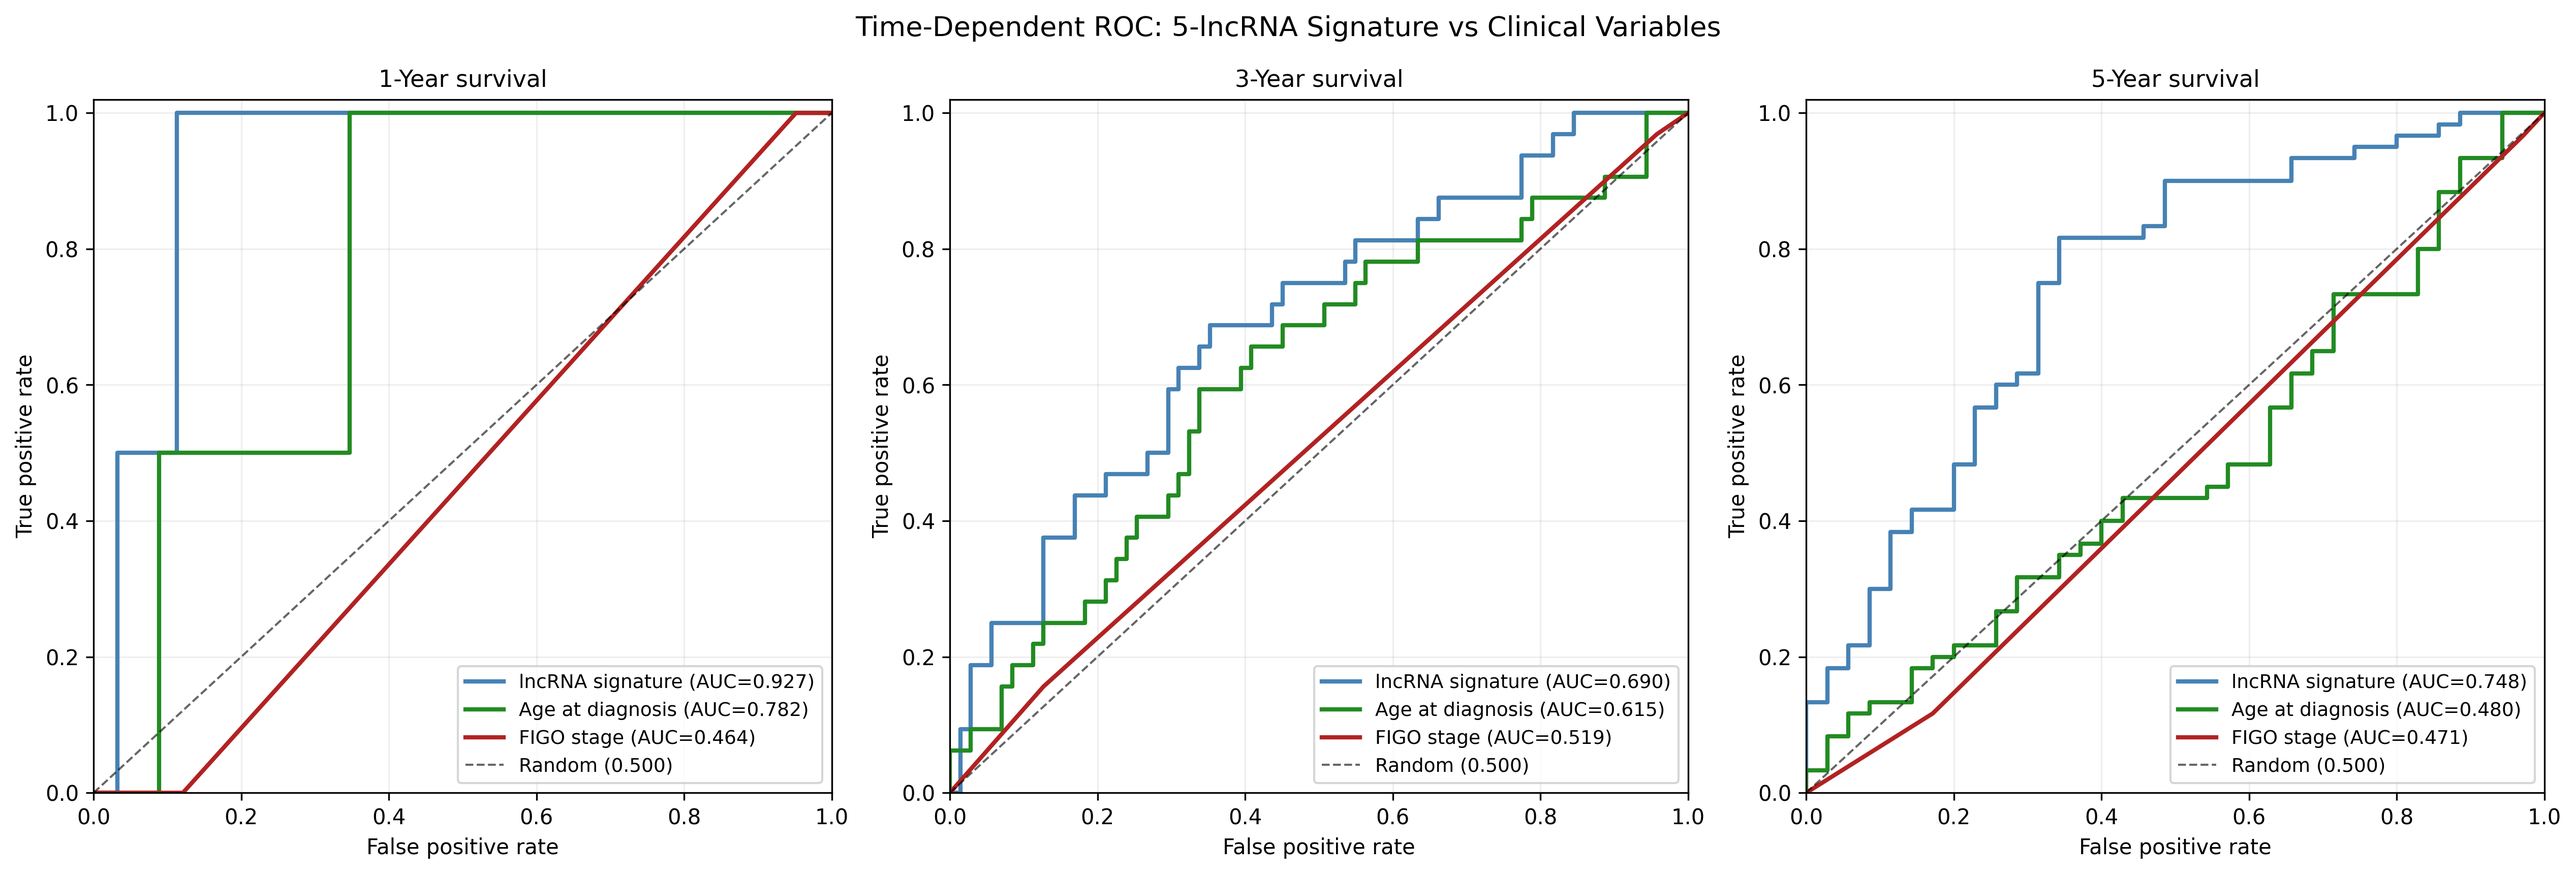
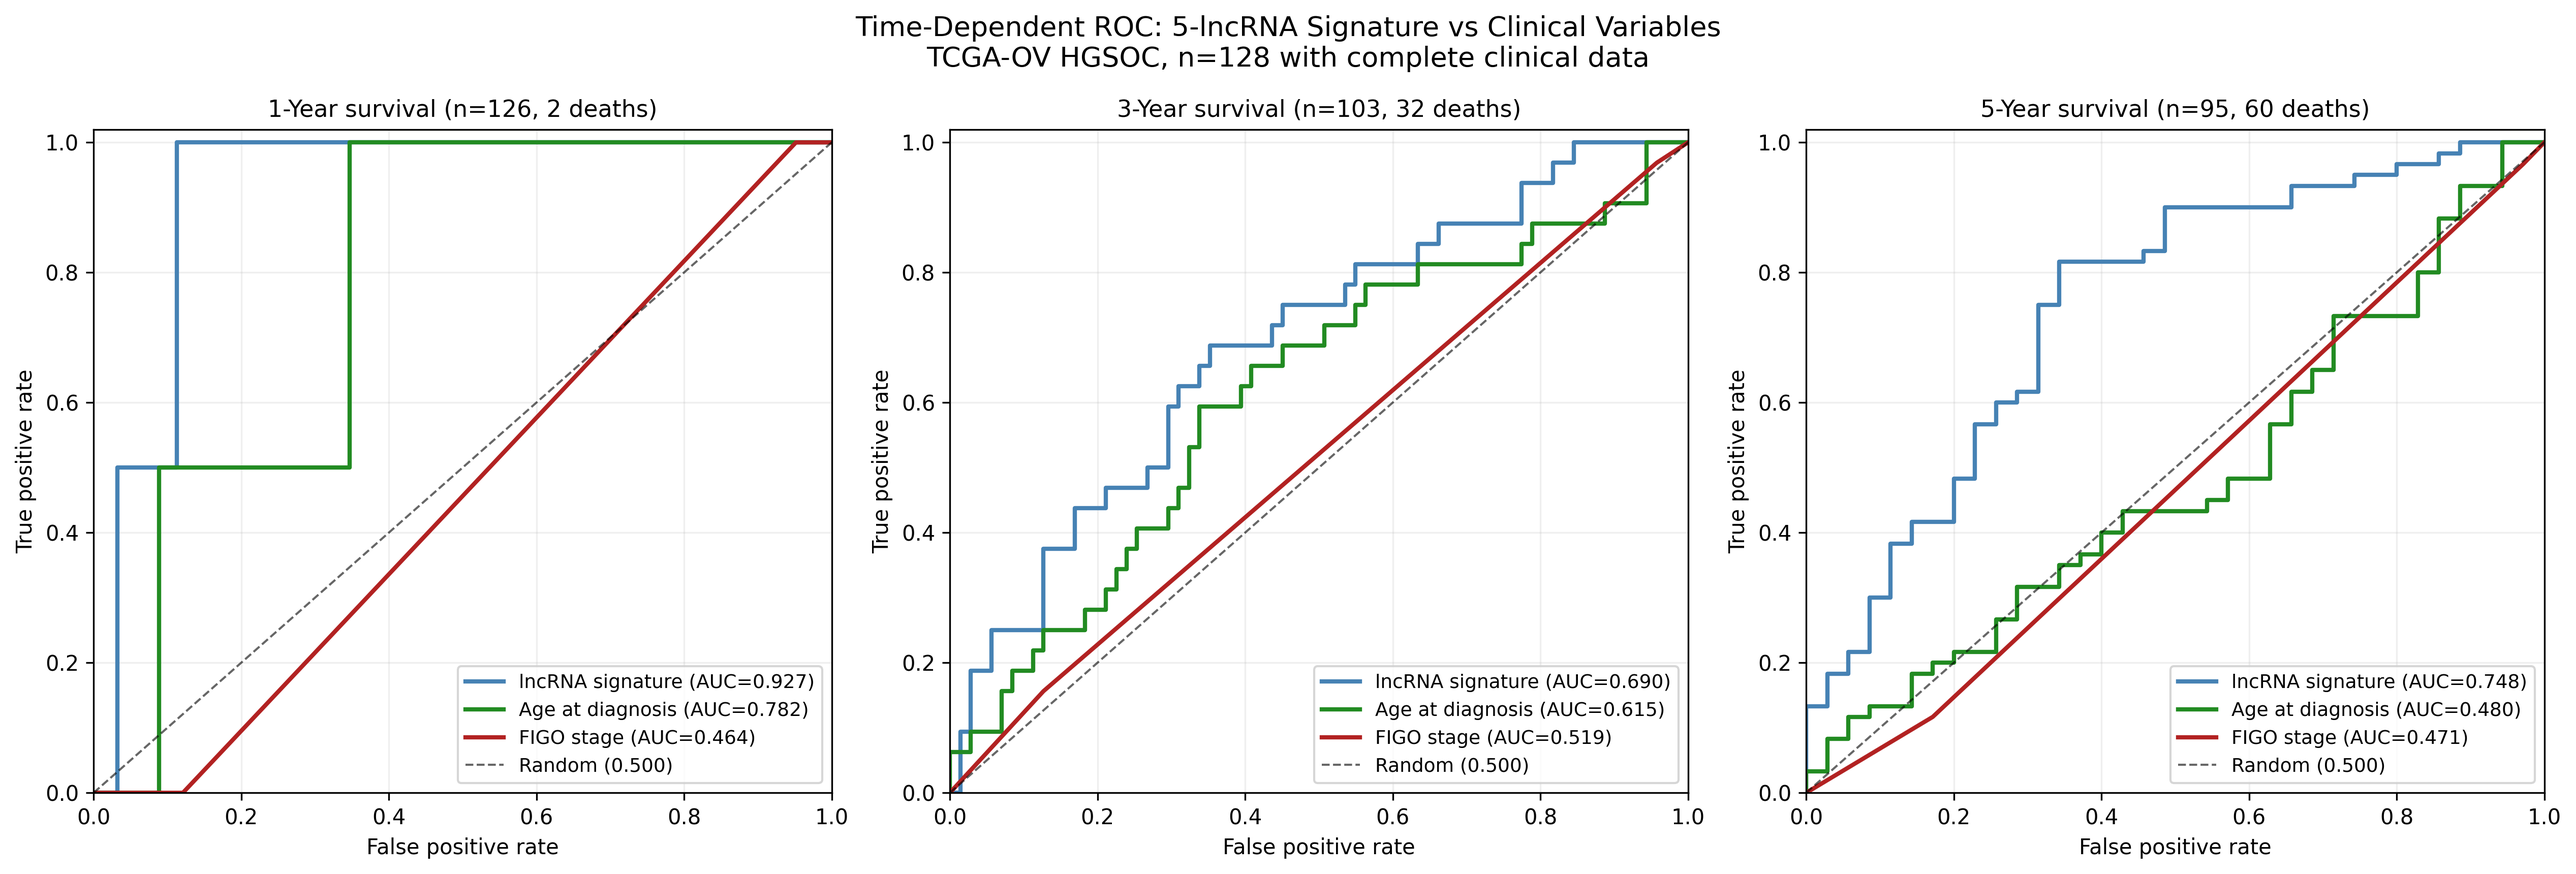
Report evaluable counts and deaths per panel
The 1-year panel rests on 2 deaths, which the AUC of 0.927 hides.
Putting the counts in the titles makes that obvious.

diff --git a/03-time-dependent-roc/time_dependent_roc.py b/03-time-dependent-roc/time_dependent_roc.py
@@ -138,12 +138,13 @@ def plot_roc_panels(frame):
         ax.set_ylim(0, 1.02)
         ax.set_xlabel("False positive rate", fontsize=10)
         ax.set_ylabel("True positive rate", fontsize=10)
-        ax.set_title(f"{label} survival", fontsize=11)
+        ax.set_title(f"{label} survival (n={evaluable.sum()}, {n_events} deaths)", fontsize=11)
         ax.legend(loc="lower right", fontsize=9)
         ax.grid(alpha=0.2)
 
     fig.suptitle(
-        "Time-Dependent ROC: 5-lncRNA Signature vs Clinical Variables",
+        "Time-Dependent ROC: 5-lncRNA Signature vs Clinical Variables\n"
+        f"TCGA-OV HGSOC, n={len(frame)} with complete clinical data",
         fontsize=13,
     )
     fig.tight_layout()
